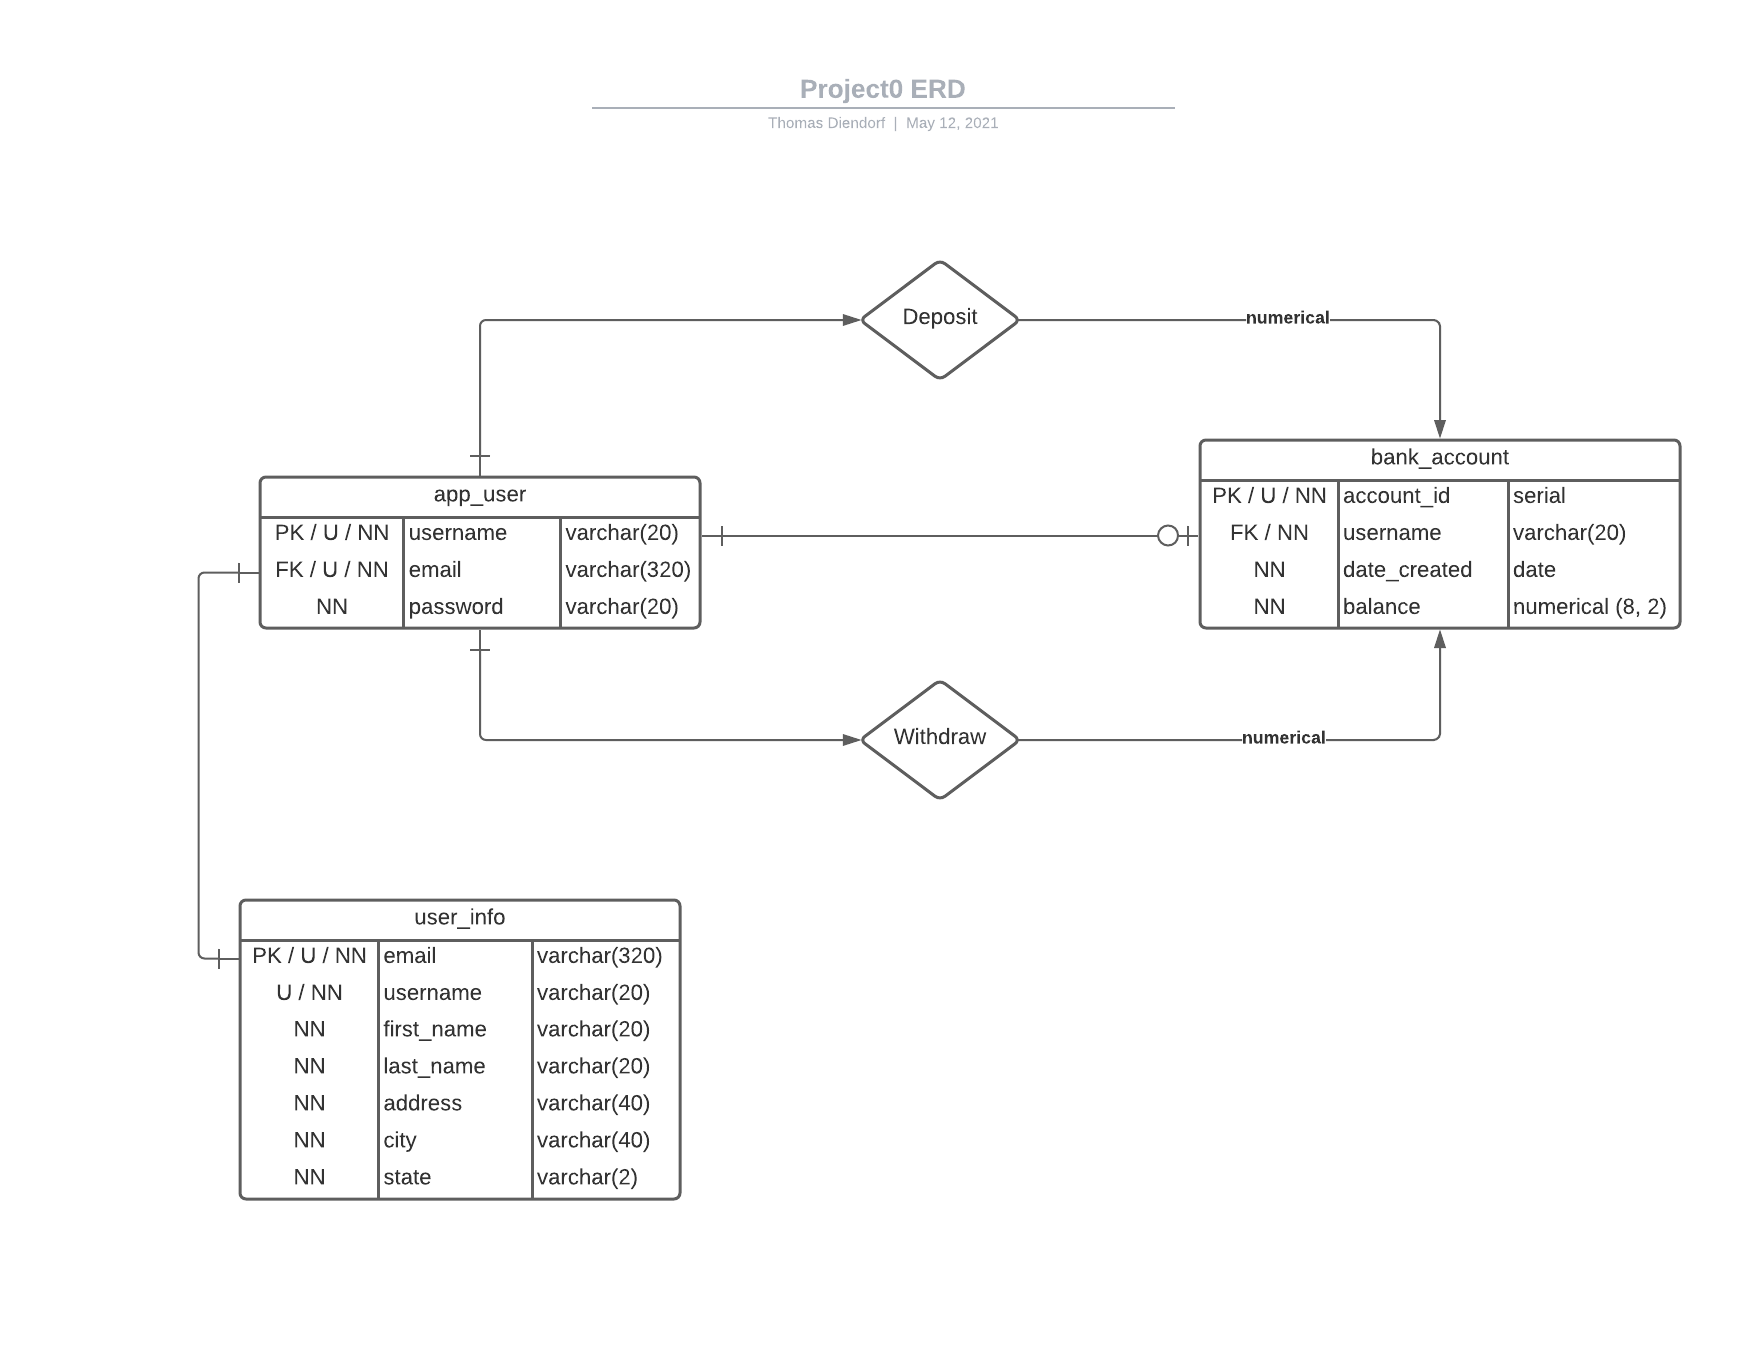
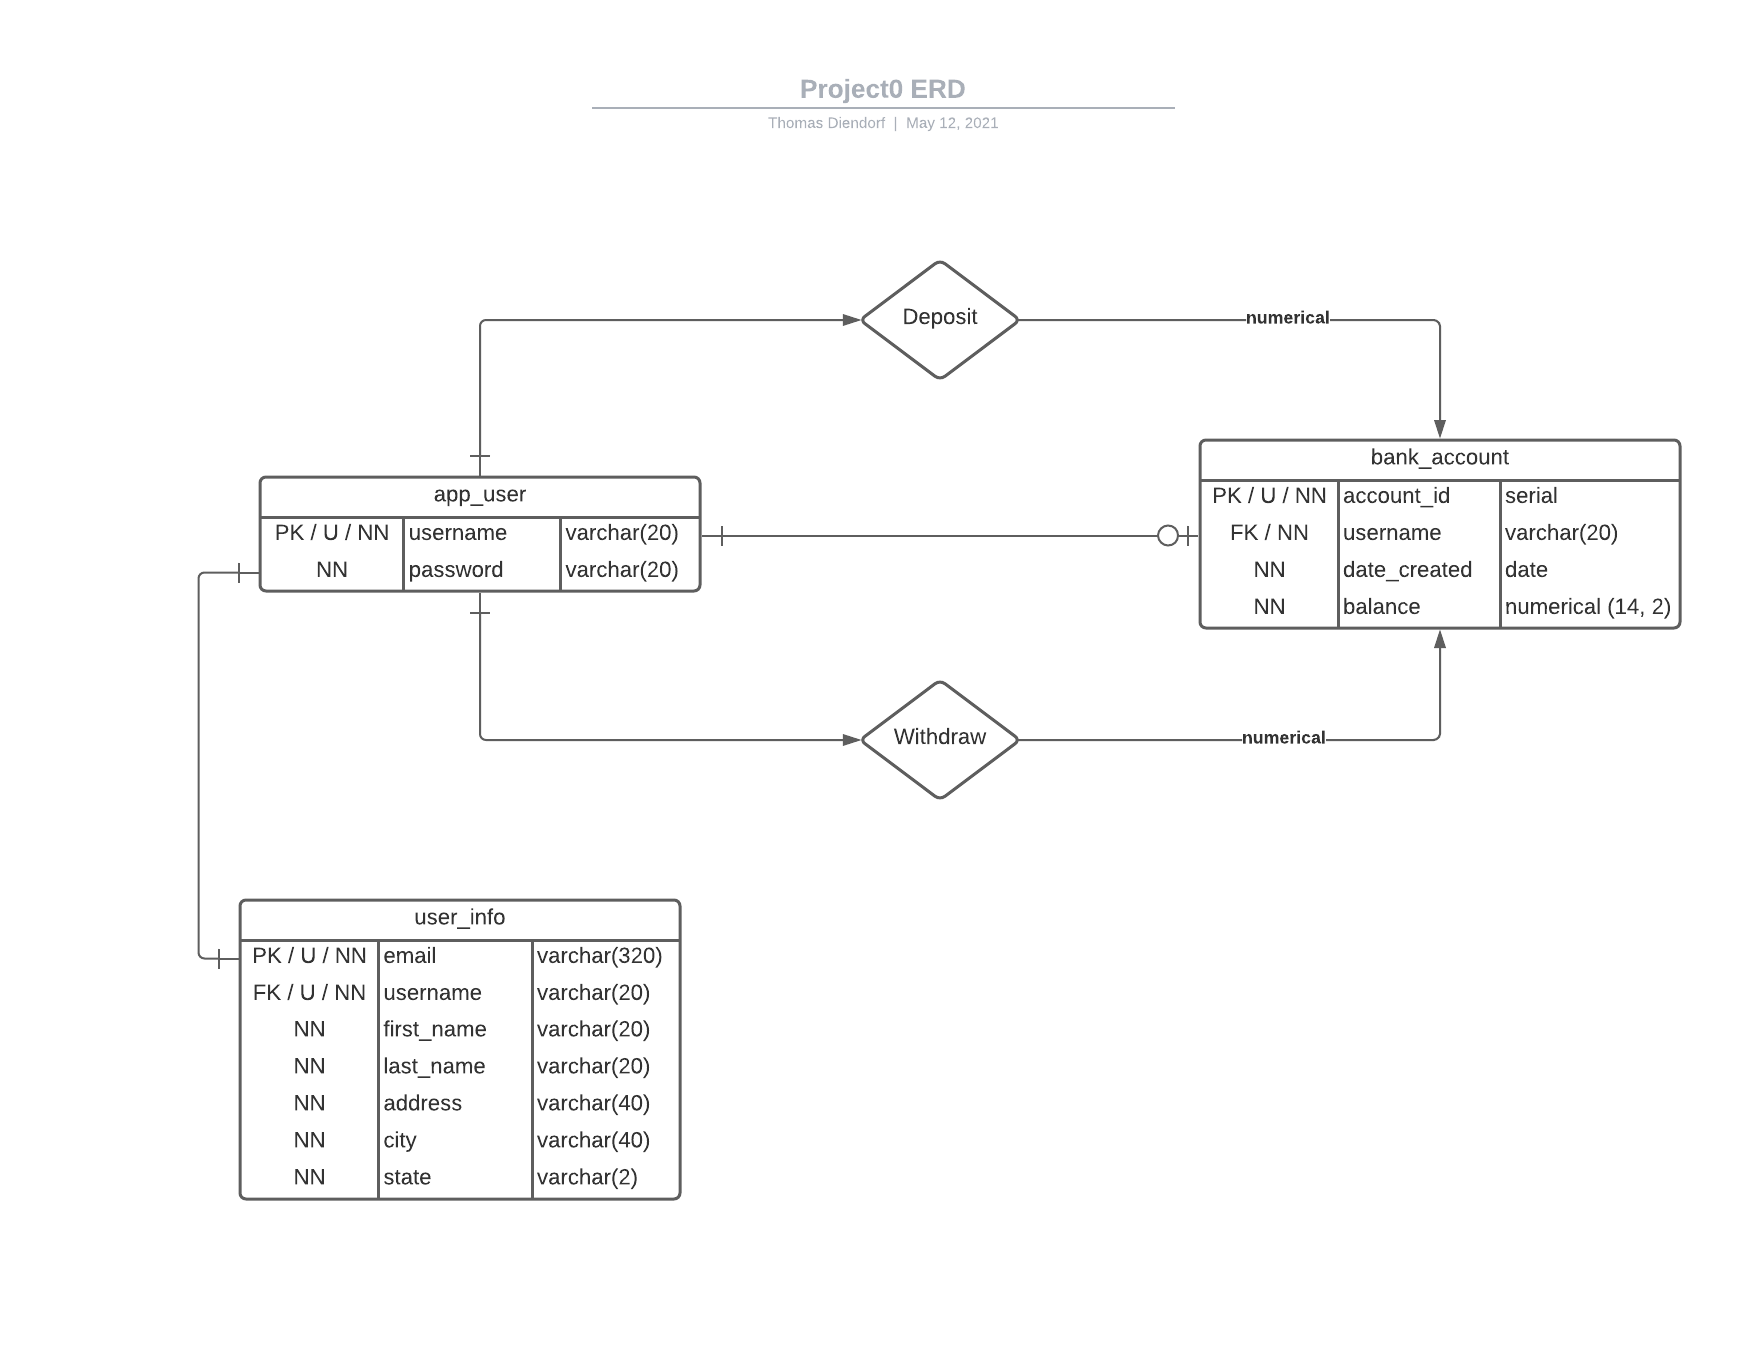
Fine-tuning deposit and withdrawals.  PLus ERD.

Changed region(s): [[0.1535, 0.4018, 0.3991, 0.4636], [0.8289, 0.34, 0.9517, 0.4636], [0.1535, 0.7108, 0.2149, 0.7417]]

diff --git a/src/main/java/com/revature/project0/screens/AccountScreen.java b/src/main/java/com/revature/project0/screens/AccountScreen.java
@@ -69,9 +69,9 @@ public class AccountScreen extends Screen {
 
         } catch (NullPointerException e) {
             hasAccount = false;
-            e.printStackTrace();
+            e.printStackTrace(printStream);
         } catch (Exception e){
-            e.printStackTrace();
+            e.printStackTrace(printStream);
         }
 
 
@@ -103,7 +103,7 @@ public class AccountScreen extends Screen {
                         case "2"://deposit
                             System.out.println("How much do you wish to deposit?");
                             System.out.print("$");
-                            amount = Double.parseDouble(consoleReader.readLine());//TODO: make sure this value is valid
+                            amount = accountDAO.stringCurrencyToDouble(consoleReader.readLine());
                             makeDeposit(amount);
                             tries = 5;
                             break;
@@ -111,7 +111,7 @@ public class AccountScreen extends Screen {
                         case "3"://withdraw
                             System.out.println("How much do you wish to withdraw?");
                             System.out.print("$");
-                            amount = Double.parseDouble(consoleReader.readLine());//TODO: make sure this value is valid
+                            amount = accountDAO.stringCurrencyToDouble(consoleReader.readLine());
                             makeWithdrawal(amount);
                             tries = 5;
                             break;
@@ -178,14 +178,15 @@ public class AccountScreen extends Screen {
                     System.out.println("2) Make a deposit");
                     System.out.println("3) Make a withdrawal");
                     System.out.println("4) Delete your bank account");
-                    System.out.println("5) Exit");
+                    System.out.println("5) Delete bank and user account");
+                    System.out.println("6) Exit");
                     userSelection = consoleReader.readLine();
                 }
             } catch (IOException e) {
                 System.out.println("Invalid input!");
-                e.printStackTrace();
+                e.printStackTrace(printStream);
             } catch (Exception e) {
-                e.printStackTrace();
+                e.printStackTrace(printStream);
             }
         } else {
             System.out.println("Please make an account " + appUser.getUsername() + "!");
@@ -227,7 +228,7 @@ public class AccountScreen extends Screen {
             } catch (IOException e) {
                 willMakeAccount = false;
                 System.out.println("There was a problem creating your account.  Redirecting...");
-                e.printStackTrace();
+                e.printStackTrace(printStream);
             }
 
             if(willMakeAccount) {
@@ -261,7 +262,7 @@ public class AccountScreen extends Screen {
             e.printStackTrace(printStream);
         }
 
-        System.out.println("You current balance is " + String.format("$%.2f", balance));
+        System.out.println("You current balance is " + accountDAO.doubleToStringCurrency(balance));
 
     }
 
@@ -278,12 +279,12 @@ public class AccountScreen extends Screen {
         }
 
         try {
-
+            double firstBalance = appAccount.getBalance();
             appAccount = accountDAO.makeDeposit(appAccount.getAccountOwner(), amount);
 
-            if(appAccount != null) {
-                System.out.println("You successfully deposited " + String.format("$%.2f", amount));
-                System.out.println("Your current balance is " + String.format("$%.2f", (appAccount.getBalance())));
+            if(appAccount != null && firstBalance < appAccount.getBalance()) {
+                System.out.println("You successfully deposited " + accountDAO.doubleToStringCurrency(amount));
+                System.out.println("Your current balance is " + accountDAO.doubleToStringCurrency(appAccount.getBalance()));
             }
 
         } catch (NullPointerException e){

diff --git a/src/main/java/com/revature/project0/daos/UserDAO.java b/src/main/java/com/revature/project0/daos/UserDAO.java
@@ -45,14 +45,14 @@ public class UserDAO {
 
             System.out.println("Uploading created user information into database...");
 
-            String sql = "insert into app_user (username, password, email)" +
-                    " values(?, ?, ?);";
+            String sql = "insert into app_user (username, password)" +
+                    " values(?, ?);";
 
             PreparedStatement pstmt = conn.prepareStatement(sql);
 
             pstmt.setString(1, newUser.getUsername());
             pstmt.setString(2, newUser.getPassword());
-            pstmt.setString(3, newUser.getEmail());
+            //pstmt.setString(3, newUser.getEmail());
 
             pstmt.executeUpdate();
 
@@ -112,7 +112,7 @@ public class UserDAO {
                 user = new AppUser();
                 user.setUsername(rs.getString("username"));
                 user.setPassword(rs.getString("password"));
-                user.setEmail(rs.getString("email"));
+                //user.setEmail(rs.getString("email"));
             }
 
 
@@ -124,6 +124,7 @@ public class UserDAO {
 
             //this while loop should only loop once
             while (rs.next()) {
+                user.setEmail(rs.getString("email"));
                 user.setFirstName(rs.getString("first_name"));
                 user.setLastName(rs.getString("last_name"));
                 user.setAddress(rs.getString("address"));
@@ -133,7 +134,7 @@ public class UserDAO {
 
 
         } catch (SQLException e) {
-            e.printStackTrace();
+            e.printStackTrace(printStream);
         }
 
         return user;
@@ -175,11 +176,11 @@ public class UserDAO {
             return false;//username not found
         } catch (PSQLException e) {//why is this catch happening?
             //System.out.println("PSQL error caught.  Column name not found.");
-            e.printStackTrace();
+            e.printStackTrace(printStream);
             return false;//username is not taken
         } catch (SQLException e) {
-            e.printStackTrace();
-            e.printStackTrace();
+            e.printStackTrace(printStream);
+            e.printStackTrace(printStream);
             return false;//ditto, but see errors
         }
 
@@ -221,11 +222,11 @@ public class UserDAO {
             return false;//no email found
         } catch (PSQLException e) {
             //System.out.println("PSQL error caught.  Column name not found.");
-            e.printStackTrace();
+            e.printStackTrace(printStream);
             return false;
         } catch (SQLException e) {
-            e.printStackTrace();
-            e.printStackTrace();
+            e.printStackTrace(printStream);
+            e.printStackTrace(printStream);
             return false;
         }
 
@@ -266,7 +267,7 @@ public class UserDAO {
             return true;//this thrown exception indicates no results returned by the query, indicating deletion
         } catch(SQLException e){
             System.out.println("There was a problem trying to close your account!");
-            e.printStackTrace();
+            e.printStackTrace(printStream);
             return false;
         }
 
@@ -296,10 +297,11 @@ public class UserDAO {
 
         } catch (PSQLException e) {
             System.out.println("You may have a bank account you need to close first!");
+            e.printStackTrace(printStream);
             return true;
         } catch(SQLException e){
             System.out.println("There was a problem trying to delete your user account!");
-            e.printStackTrace();
+            e.printStackTrace(printStream);
             return false;
         }
 

diff --git a/src/main/java/com/revature/project0/daos/AccountDAO.java b/src/main/java/com/revature/project0/daos/AccountDAO.java
@@ -122,6 +122,9 @@ public class AccountDAO {
         if(amount <= 0){
             System.out.println("Invalid amount!");
             return account;
+        } else if(amount > 99999999.99){
+            System.out.println("The amount is too high!");
+            return account;
         }
 
         double currentBalance = 0;
@@ -137,6 +140,11 @@ public class AccountDAO {
         }
 
         currentBalance = currentBalance + amount;
+
+        if(currentBalance > 99999999.99){
+            System.out.println("Your account cannot hold this amount!");
+            return account;
+        }
 
         String newBalance = doubleToStringCurrency(currentBalance);
 
